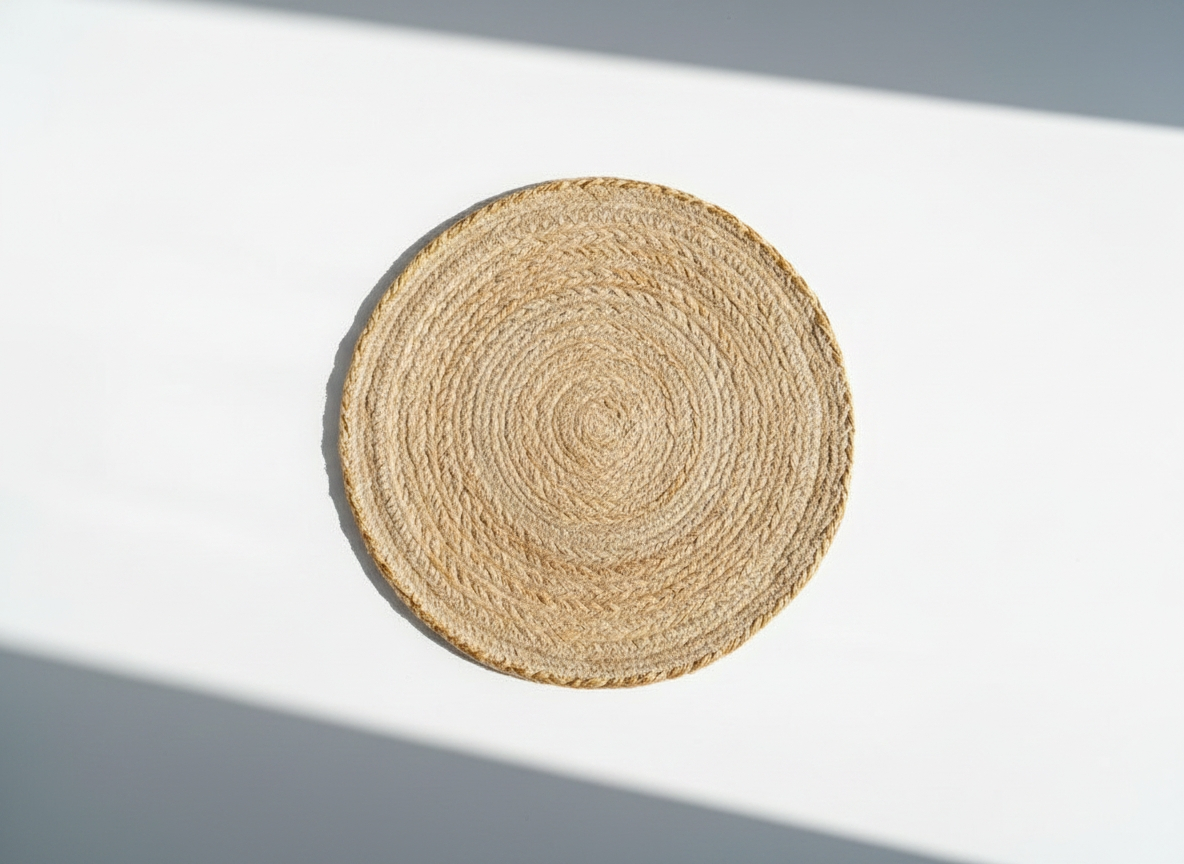
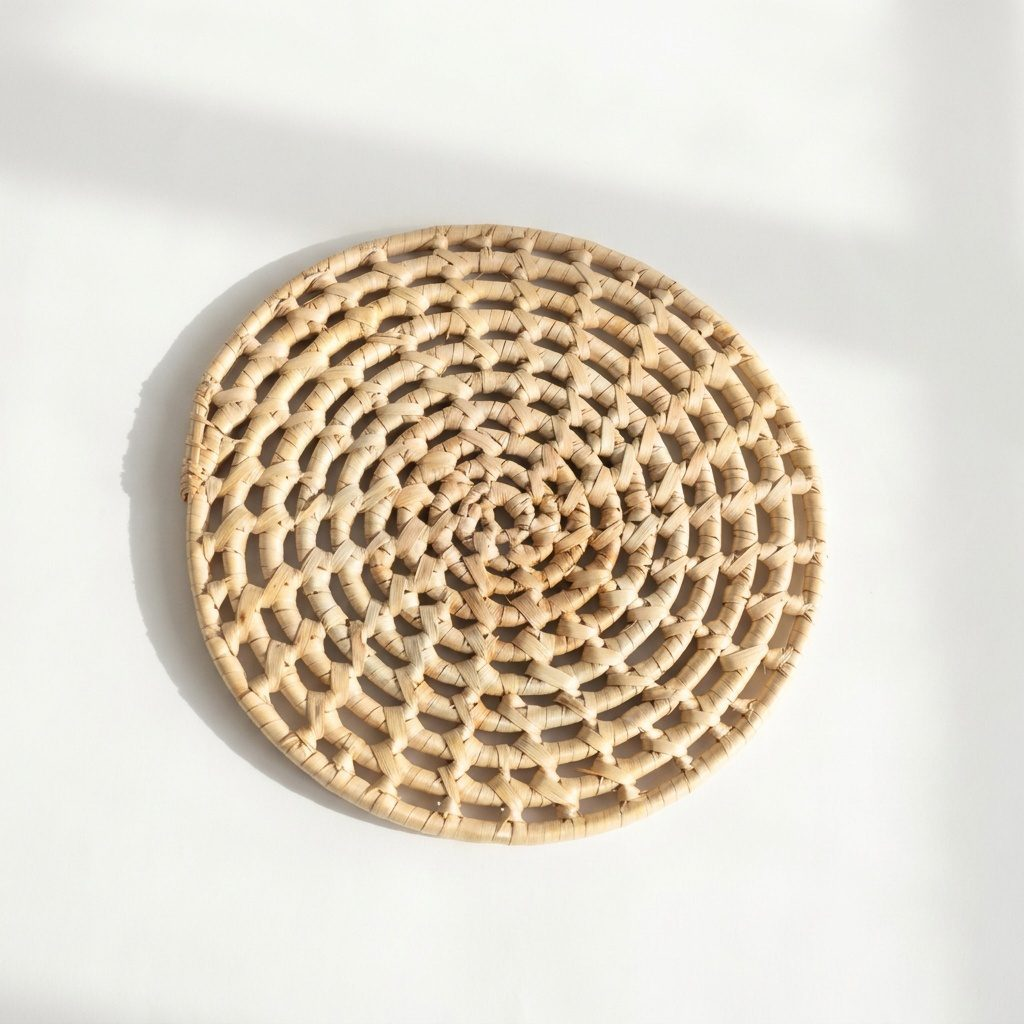
Blue & White: 14 modelos reales (nombre, medida, cantidad, portada marcada) reemplazan genéricos; fix foto Palma; quitar filtro tipo duplicado; platos a 32

diff --git a/data.js b/data.js
@@ -29,7 +29,7 @@ var ICONS = {
 
 var COLECCIONES = [
   { id: 'cargadores', nombre: 'Platos de sitio',  icon: 'plato',   modelos: 4,  portada: 'assets/06-hero-portada/categorias/cat-platos-de-sitio.jpg' },
-  { id: 'platos',     nombre: 'Platos',           icon: 'bowl',    modelos: 31, portada: 'assets/06-hero-portada/categorias/cat-platos.jpg' },
+  { id: 'platos',     nombre: 'Platos',           icon: 'bowl',    modelos: 32, portada: 'assets/06-hero-portada/categorias/cat-platos.jpg' },
   { id: 'cubiertos',  nombre: 'Cubertería',       icon: 'cubierto',modelos: 4,  portada: 'assets/06-hero-portada/categorias/cat-cuberteria.png' },
   { id: 'cristaleria',nombre: 'Cristalería',      icon: 'copa',    modelos: 12, portada: 'assets/06-hero-portada/categorias/cat-cristaleria.jpg' },
   { id: 'plateria',   nombre: 'Platería',         icon: 'centro',  modelos: 0,  portada: 'assets/06-hero-portada/categorias/cat-plateria.jpg' }
@@ -61,19 +61,20 @@ var PRODUCTOS = [
   /* ---------- Mix & Match (familias con sub-modelos · STOCK A CONFIRMAR ⚠️) ----------
      Cada playo y cada postre es un producto propio (filtrable). Se cruzan en "combiná con".
      Nombres de postres provisorios (Blue & White 01..10 / Bordó 01..04). */
-  { id:'bw-opulence', nombre:'Blue & White Opulence', coleccion:'platos', icon:'bowl', material:'Mix & match · azul', destacado:false, piezas:[{t:'Playo',s:40}], tags:['azul','vintage','mix & match','playo'], descripcion:'Plato playo Blue & White de la familia mix & match. Combinable con todos los postres de la línea.', combinaCon:['bw-cobalto','bw-floral','bw-postre-01','bw-postre-02','bw-postre-03','bw-postre-04','bw-postre-05','bw-postre-06','bw-postre-07','bw-postre-08','bw-postre-09','bw-postre-10'], fotos:['assets/02-platos/bw-opulence/bw-opulence-1.jpg','assets/02-platos/bw-opulence/bw-opulence-2.jpg','assets/02-platos/bw-opulence/bw-opulence-3.jpg','assets/02-platos/bw-opulence/bw-opulence-4.jpg','assets/02-platos/bw-opulence/bw-opulence-5.jpg','assets/02-platos/bw-opulence/bw-opulence-6.jpg'] },
-  { id:'bw-cobalto', nombre:'Blue & White Cobalto y oro', coleccion:'platos', icon:'bowl', material:'Mix & match · azul', destacado:false, piezas:[{t:'Playo',s:32}], tags:['azul','vintage','mix & match','playo'], descripcion:'Plato playo Blue & White de la familia mix & match. Combinable con todos los postres de la línea.', combinaCon:['bw-opulence','bw-floral','bw-postre-01','bw-postre-02','bw-postre-03','bw-postre-04','bw-postre-05','bw-postre-06','bw-postre-07','bw-postre-08','bw-postre-09','bw-postre-10'], fotos:['assets/02-platos/bw-cobalto/bw-cobalto-1.jpg','assets/02-platos/bw-cobalto/bw-cobalto-2.jpg','assets/02-platos/bw-cobalto/bw-cobalto-3.jpg','assets/02-platos/bw-cobalto/bw-cobalto-4.jpg','assets/02-platos/bw-cobalto/bw-cobalto-5.jpg'] },
-  { id:'bw-floral', nombre:'Blue & White Floral', coleccion:'platos', icon:'bowl', material:'Mix & match · azul', destacado:false, piezas:[{t:'Playo',s:28}], tags:['azul','vintage','mix & match','playo'], descripcion:'Plato playo Blue & White de la familia mix & match. Combinable con todos los postres de la línea.', combinaCon:['bw-opulence','bw-cobalto','bw-postre-01','bw-postre-02','bw-postre-03','bw-postre-04','bw-postre-05','bw-postre-06','bw-postre-07','bw-postre-08','bw-postre-09','bw-postre-10'], fotos:['assets/02-platos/bw-floral/bw-floral-1.jpg','assets/02-platos/bw-floral/bw-floral-2.jpg'] },
-  { id:'bw-postre-01', nombre:'Postre Blue & White 01', coleccion:'platos', icon:'bowl', material:'Mix & match · azul', destacado:false, piezas:[{t:'Postre',s:12}], tags:['azul','vintage','mix & match','postre'], descripcion:'Plato de postre mix & match Blue & White. Combinable con cualquier playo de la línea.', combinaCon:['bw-opulence','bw-cobalto','bw-floral'], fotos:['assets/02-platos/bw-postre-01/bw-postre-01-1.jpg'] },
-  { id:'bw-postre-02', nombre:'Postre Blue & White 02', coleccion:'platos', icon:'bowl', material:'Mix & match · azul', destacado:false, piezas:[{t:'Postre',s:10}], tags:['azul','vintage','mix & match','postre'], descripcion:'Plato de postre mix & match Blue & White. Combinable con cualquier playo de la línea.', combinaCon:['bw-opulence','bw-cobalto','bw-floral'], fotos:['assets/02-platos/bw-postre-02/bw-postre-02-1.jpg'] },
-  { id:'bw-postre-03', nombre:'Postre Blue & White 03', coleccion:'platos', icon:'bowl', material:'Mix & match · azul', destacado:false, piezas:[{t:'Postre',s:8}], tags:['azul','vintage','mix & match','postre'], descripcion:'Plato de postre mix & match Blue & White. Combinable con cualquier playo de la línea.', combinaCon:['bw-opulence','bw-cobalto','bw-floral'], fotos:['assets/02-platos/bw-postre-03/bw-postre-03-1.jpg'] },
-  { id:'bw-postre-04', nombre:'Postre Blue & White 04', coleccion:'platos', icon:'bowl', material:'Mix & match · azul', destacado:false, piezas:[{t:'Postre',s:15}], tags:['azul','vintage','mix & match','postre'], descripcion:'Plato de postre mix & match Blue & White. Combinable con cualquier playo de la línea.', combinaCon:['bw-opulence','bw-cobalto','bw-floral'], fotos:['assets/02-platos/bw-postre-04/bw-postre-04-1.jpg'] },
-  { id:'bw-postre-05', nombre:'Postre Blue & White 05', coleccion:'platos', icon:'bowl', material:'Mix & match · azul', destacado:false, piezas:[{t:'Postre',s:9}], tags:['azul','vintage','mix & match','postre'], descripcion:'Plato de postre mix & match Blue & White. Combinable con cualquier playo de la línea.', combinaCon:['bw-opulence','bw-cobalto','bw-floral'], fotos:['assets/02-platos/bw-postre-05/bw-postre-05-1.jpg'] },
-  { id:'bw-postre-06', nombre:'Postre Blue & White 06', coleccion:'platos', icon:'bowl', material:'Mix & match · azul', destacado:false, piezas:[{t:'Postre',s:6}], tags:['azul','vintage','mix & match','postre'], descripcion:'Plato de postre mix & match Blue & White. Combinable con cualquier playo de la línea.', combinaCon:['bw-opulence','bw-cobalto','bw-floral'], fotos:['assets/02-platos/bw-postre-06/bw-postre-06-1.jpg'] },
-  { id:'bw-postre-07', nombre:'Postre Blue & White 07', coleccion:'platos', icon:'bowl', material:'Mix & match · azul', destacado:false, piezas:[{t:'Postre',s:11}], tags:['azul','vintage','mix & match','postre'], descripcion:'Plato de postre mix & match Blue & White. Combinable con cualquier playo de la línea.', combinaCon:['bw-opulence','bw-cobalto','bw-floral'], fotos:['assets/02-platos/bw-postre-07/bw-postre-07-1.jpg'] },
-  { id:'bw-postre-08', nombre:'Postre Blue & White 08', coleccion:'platos', icon:'bowl', material:'Mix & match · azul', destacado:false, piezas:[{t:'Postre',s:7}], tags:['azul','vintage','mix & match','postre'], descripcion:'Plato de postre mix & match Blue & White. Combinable con cualquier playo de la línea.', combinaCon:['bw-opulence','bw-cobalto','bw-floral'], fotos:['assets/02-platos/bw-postre-08/bw-postre-08-1.jpg'] },
-  { id:'bw-postre-09', nombre:'Postre Blue & White 09', coleccion:'platos', icon:'bowl', material:'Mix & match · azul', destacado:false, piezas:[{t:'Postre',s:14}], tags:['azul','vintage','mix & match','postre'], descripcion:'Plato de postre mix & match Blue & White. Combinable con cualquier playo de la línea.', combinaCon:['bw-opulence','bw-cobalto','bw-floral'], fotos:['assets/02-platos/bw-postre-09/bw-postre-09-1.jpg'] },
-  { id:'bw-postre-10', nombre:'Postre Blue & White 10', coleccion:'platos', icon:'bowl', material:'Mix & match · azul', destacado:false, piezas:[{t:'Postre',s:8}], tags:['azul','vintage','mix & match','postre'], descripcion:'Plato de postre mix & match Blue & White. Combinable con cualquier playo de la línea.', combinaCon:['bw-opulence','bw-cobalto','bw-floral'], fotos:['assets/02-platos/bw-postre-10/bw-postre-10-1.jpg'] },
+  { id:'bw-rockwood', nombre:'Inglés Blue Rockwood', coleccion:'platos', icon:'bowl', material:'Mix & match · azul', destacado:false, piezas:[{t:'Playo 25 cm',s:12},{t:'Postre 22 cm',s:12}], tags:['azul','vintage','mix & match','playo','postre'], descripcion:'Modelo Blue & White de mix & match. Combinable con cualquier otro de la familia.', combinaCon:['bw-lozalit','bw-gural','bw-printemps','bw-british-anchor','bw-country','bw-johnson','bw-saxonia','bw-tsuji-old','bw-kent','bw-opulence','bw-verbano','bw-tsuji-flora','bw-bavaria'], fotos:['assets/02-platos/bw-rockwood/bw-rockwood-1.jpg','assets/02-platos/bw-rockwood/bw-rockwood-2.jpg','assets/02-platos/bw-rockwood/bw-rockwood-3.jpg'] },
+  { id:'bw-lozalit', nombre:'Azul con Flores Vintage Lozalit', coleccion:'platos', icon:'bowl', material:'Mix & match · azul', destacado:false, piezas:[{t:'Playo 25 cm',s:28},{t:'Postre 20 cm',s:21}], tags:['azul','vintage','mix & match','playo','postre'], descripcion:'Modelo Blue & White de mix & match. Combinable con cualquier otro de la familia.', combinaCon:['bw-rockwood','bw-gural','bw-printemps','bw-british-anchor','bw-country','bw-johnson','bw-saxonia','bw-tsuji-old','bw-kent','bw-opulence','bw-verbano','bw-tsuji-flora','bw-bavaria'], fotos:['assets/02-platos/bw-lozalit/bw-lozalit-1.jpg','assets/02-platos/bw-lozalit/bw-lozalit-2.jpg','assets/02-platos/bw-lozalit/bw-lozalit-3.jpg'] },
+  { id:'bw-gural', nombre:'Azul y Oro Gural', coleccion:'platos', icon:'bowl', material:'Mix & match · azul y oro', destacado:false, piezas:[{t:'Playo 27 cm',s:7},{t:'Postre 20 cm',s:6}], tags:['azul','dorado','vintage','mix & match','playo','postre'], descripcion:'Modelo Blue & White de mix & match. Combinable con cualquier otro de la familia.', combinaCon:['bw-rockwood','bw-lozalit','bw-printemps','bw-british-anchor','bw-country','bw-johnson','bw-saxonia','bw-tsuji-old','bw-kent','bw-opulence','bw-verbano','bw-tsuji-flora','bw-bavaria'], fotos:['assets/02-platos/bw-gural/bw-gural-1.jpg','assets/02-platos/bw-gural/bw-gural-2.jpg'] },
+  { id:'bw-printemps', nombre:'Blue & White Printemps', coleccion:'platos', icon:'bowl', material:'Mix & match · azul', destacado:false, piezas:[{t:'Playo 23 cm',s:23},{t:'Postre 20 cm',s:12}], tags:['azul','vintage','mix & match','playo','postre'], descripcion:'Modelo Blue & White de mix & match. Combinable con cualquier otro de la familia.', combinaCon:['bw-rockwood','bw-lozalit','bw-gural','bw-british-anchor','bw-country','bw-johnson','bw-saxonia','bw-tsuji-old','bw-kent','bw-opulence','bw-verbano','bw-tsuji-flora','bw-bavaria'], fotos:['assets/02-platos/bw-printemps/bw-printemps-1.jpg','assets/02-platos/bw-printemps/bw-printemps-2.jpg'] },
+  { id:'bw-british-anchor', nombre:'Blue British Anchor', coleccion:'platos', icon:'bowl', material:'Mix & match · azul', destacado:false, piezas:[{t:'Playo 23 cm',s:6},{t:'Postre 20 cm',s:5}], tags:['azul','vintage','mix & match','playo','postre'], descripcion:'Modelo Blue & White de mix & match. Combinable con cualquier otro de la familia.', combinaCon:['bw-rockwood','bw-lozalit','bw-gural','bw-printemps','bw-country','bw-johnson','bw-saxonia','bw-tsuji-old','bw-kent','bw-opulence','bw-verbano','bw-tsuji-flora','bw-bavaria'], fotos:['assets/02-platos/bw-british-anchor/bw-british-anchor-1.jpg','assets/02-platos/bw-british-anchor/bw-british-anchor-2.jpg'] },
+  { id:'bw-country', nombre:'Blue Country', coleccion:'platos', icon:'bowl', material:'Mix & match · azul', destacado:false, piezas:[{t:'Entrada 19 cm',s:44}], tags:['azul','vintage','mix & match','postre'], descripcion:'Modelo Blue & White de mix & match. Combinable con cualquier otro de la familia.', combinaCon:['bw-rockwood','bw-lozalit','bw-gural','bw-printemps','bw-british-anchor','bw-johnson','bw-saxonia','bw-tsuji-old','bw-kent','bw-opulence','bw-verbano','bw-tsuji-flora','bw-bavaria'], fotos:['assets/02-platos/bw-country/bw-country-1.jpg','assets/02-platos/bw-country/bw-country-2.jpg'] },
+  { id:'bw-johnson', nombre:'Johnson Bros Blue & White', coleccion:'platos', icon:'bowl', material:'Mix & match · azul', destacado:false, piezas:[{t:'Playo 25 cm',s:11},{t:'Postre 20 cm',s:10}], tags:['azul','vintage','mix & match','playo','postre'], descripcion:'Modelo Blue & White de mix & match. Combinable con cualquier otro de la familia.', combinaCon:['bw-rockwood','bw-lozalit','bw-gural','bw-printemps','bw-british-anchor','bw-country','bw-saxonia','bw-tsuji-old','bw-kent','bw-opulence','bw-verbano','bw-tsuji-flora','bw-bavaria'], fotos:['assets/02-platos/bw-johnson/bw-johnson-1.jpg','assets/02-platos/bw-johnson/bw-johnson-2.jpg','assets/02-platos/bw-johnson/bw-johnson-3.jpg'] },
+  { id:'bw-saxonia', nombre:'Porcelana Azul Saxonia', coleccion:'platos', icon:'bowl', material:'Mix & match · azul', destacado:false, piezas:[{t:'Postre 20 cm',s:12}], tags:['azul','vintage','mix & match','postre'], descripcion:'Modelo Blue & White de mix & match. Combinable con cualquier otro de la familia.', combinaCon:['bw-rockwood','bw-lozalit','bw-gural','bw-printemps','bw-british-anchor','bw-country','bw-johnson','bw-tsuji-old','bw-kent','bw-opulence','bw-verbano','bw-tsuji-flora','bw-bavaria'], fotos:['assets/02-platos/bw-saxonia/bw-saxonia-1.jpg','assets/02-platos/bw-saxonia/bw-saxonia-2.jpg'] },
+  { id:'bw-tsuji-old', nombre:'Old Blue Tsuji', coleccion:'platos', icon:'bowl', material:'Mix & match · azul', destacado:false, piezas:[{t:'Postre 20 cm',s:11}], tags:['azul','vintage','mix & match','postre'], descripcion:'Modelo Blue & White de mix & match. Combinable con cualquier otro de la familia.', combinaCon:['bw-rockwood','bw-lozalit','bw-gural','bw-printemps','bw-british-anchor','bw-country','bw-johnson','bw-saxonia','bw-kent','bw-opulence','bw-verbano','bw-tsuji-flora','bw-bavaria'], fotos:['assets/02-platos/bw-tsuji-old/bw-tsuji-old-1.jpg','assets/02-platos/bw-tsuji-old/bw-tsuji-old-2.jpg'] },
+  { id:'bw-kent', nombre:'Blue & White Kent', coleccion:'platos', icon:'bowl', material:'Mix & match · azul', destacado:false, piezas:[{t:'Playo 24 cm',s:12}], tags:['azul','vintage','mix & match','playo'], descripcion:'Modelo Blue & White de mix & match. Combinable con cualquier otro de la familia.', combinaCon:['bw-rockwood','bw-lozalit','bw-gural','bw-printemps','bw-british-anchor','bw-country','bw-johnson','bw-saxonia','bw-tsuji-old','bw-opulence','bw-verbano','bw-tsuji-flora','bw-bavaria'], fotos:['assets/02-platos/bw-kent/bw-kent-1.jpg','assets/02-platos/bw-kent/bw-kent-2.jpg','assets/02-platos/bw-kent/bw-kent-3.jpg'] },
+  { id:'bw-opulence', nombre:'Opulence Blue & White', coleccion:'platos', icon:'bowl', material:'Mix & match · azul', destacado:false, piezas:[{t:'Playo 27 cm',s:19}], tags:['azul','vintage','mix & match','playo'], descripcion:'Modelo Blue & White de mix & match. Combinable con cualquier otro de la familia.', combinaCon:['bw-rockwood','bw-lozalit','bw-gural','bw-printemps','bw-british-anchor','bw-country','bw-johnson','bw-saxonia','bw-tsuji-old','bw-kent','bw-verbano','bw-tsuji-flora','bw-bavaria'], fotos:['assets/02-platos/bw-opulence/bw-opulence-1.jpg','assets/02-platos/bw-opulence/bw-opulence-2.jpg','assets/02-platos/bw-opulence/bw-opulence-3.jpg','assets/02-platos/bw-opulence/bw-opulence-4.jpg','assets/02-platos/bw-opulence/bw-opulence-5.jpg'] },
+  { id:'bw-verbano', nombre:'Verbano Azul y Oro', coleccion:'platos', icon:'bowl', material:'Mix & match · azul y oro', destacado:false, piezas:[{t:'Playo 25 cm',s:32},{t:'Postre 20 cm',s:23}], tags:['azul','dorado','vintage','mix & match','playo','postre'], descripcion:'Modelo Blue & White de mix & match. Combinable con cualquier otro de la familia.', combinaCon:['bw-rockwood','bw-lozalit','bw-gural','bw-printemps','bw-british-anchor','bw-country','bw-johnson','bw-saxonia','bw-tsuji-old','bw-kent','bw-opulence','bw-tsuji-flora','bw-bavaria'], fotos:['assets/02-platos/bw-verbano/bw-verbano-1.jpg','assets/02-platos/bw-verbano/bw-verbano-2.jpg','assets/02-platos/bw-verbano/bw-verbano-3.jpg'] },
+  { id:'bw-tsuji-flora', nombre:'Tsuji Blue Flora', coleccion:'platos', icon:'bowl', material:'Mix & match · azul', destacado:false, piezas:[{t:'Postre 20 cm',s:12}], tags:['azul','vintage','mix & match','postre'], descripcion:'Modelo Blue & White de mix & match. Combinable con cualquier otro de la familia.', combinaCon:['bw-rockwood','bw-lozalit','bw-gural','bw-printemps','bw-british-anchor','bw-country','bw-johnson','bw-saxonia','bw-tsuji-old','bw-kent','bw-opulence','bw-verbano','bw-bavaria'], fotos:['assets/02-platos/bw-tsuji-flora/bw-tsuji-flora-1.jpg','assets/02-platos/bw-tsuji-flora/bw-tsuji-flora-2.jpg','assets/02-platos/bw-tsuji-flora/bw-tsuji-flora-3.jpg'] },
+  { id:'bw-bavaria', nombre:'Flores Azul Bavaria Marie Luise', coleccion:'platos', icon:'bowl', material:'Mix & match · azul', destacado:false, piezas:[{t:'Postre',s:20}], tags:['azul','vintage','mix & match','postre'], descripcion:'Modelo Blue & White de mix & match. Combinable con cualquier otro de la familia.', combinaCon:['bw-rockwood','bw-lozalit','bw-gural','bw-printemps','bw-british-anchor','bw-country','bw-johnson','bw-saxonia','bw-tsuji-old','bw-kent','bw-opulence','bw-verbano','bw-tsuji-flora'], fotos:['assets/02-platos/bw-bavaria/bw-bavaria-1.jpg'] },
   { id:'bordo-clasico', nombre:'Bordó', coleccion:'platos', icon:'bowl', material:'Mix & match · bordó', destacado:false, piezas:[{t:'Playo',s:40}], tags:['bordó','vintage','mix & match','playo'], descripcion:'Plato playo Bordó de la familia mix & match. Combinable con todos los postres de la línea.', combinaCon:['bordo-opulence','bordo-postre-01','bordo-postre-02','bordo-postre-03','bordo-postre-04'], fotos:['assets/02-platos/bordo-clasico/bordo-clasico-1.jpg','assets/02-platos/bordo-clasico/bordo-clasico-2.jpg','assets/02-platos/bordo-clasico/bordo-clasico-3.jpg','assets/02-platos/bordo-clasico/bordo-clasico-4.jpg'] },
   { id:'bordo-opulence', nombre:'Bordó Opulence', coleccion:'platos', icon:'bowl', material:'Mix & match · bordó', destacado:false, piezas:[{t:'Playo',s:32}], tags:['bordó','vintage','mix & match','playo'], descripcion:'Plato playo Bordó de la familia mix & match. Combinable con todos los postres de la línea.', combinaCon:['bordo-clasico','bordo-postre-01','bordo-postre-02','bordo-postre-03','bordo-postre-04'], fotos:['assets/02-platos/bordo-opulence/bordo-opulence-1.jpg','assets/02-platos/bordo-opulence/bordo-opulence-2.jpg','assets/02-platos/bordo-opulence/bordo-opulence-3.jpg','assets/02-platos/bordo-opulence/bordo-opulence-4.jpg','assets/02-platos/bordo-opulence/bordo-opulence-5.jpg','assets/02-platos/bordo-opulence/bordo-opulence-6.jpg','assets/02-platos/bordo-opulence/bordo-opulence-7.jpg','assets/02-platos/bordo-opulence/bordo-opulence-8.jpg','assets/02-platos/bordo-opulence/bordo-opulence-9.jpg','assets/02-platos/bordo-opulence/bordo-opulence-10.jpg','assets/02-platos/bordo-opulence/bordo-opulence-11.jpg'] },
   { id:'bordo-postre-01', nombre:'Postre Bordó 01', coleccion:'platos', icon:'bowl', material:'Mix & match · bordó', destacado:false, piezas:[{t:'Postre',s:12}], tags:['bordó','vintage','mix & match','postre'], descripcion:'Plato de postre mix & match Bordó. Combinable con cualquier playo de la línea.', combinaCon:['bordo-clasico','bordo-opulence'], fotos:['assets/02-platos/bordo-postre-01/bordo-postre-01-1.jpg'] },

diff --git a/catalogo.html b/catalogo.html
@@ -8,7 +8,7 @@
   <link rel="preconnect" href="https://fonts.googleapis.com" />
   <link rel="preconnect" href="https://fonts.gstatic.com" crossorigin />
   <link href="https://fonts.googleapis.com/css2?family=Playfair+Display:wght@400;500;700&family=Montserrat:wght@300;400;500&display=swap" rel="stylesheet" />
-  <link rel="stylesheet" href="styles.css?v=6" />
+  <link rel="stylesheet" href="styles.css?v=7" />
 </head>
 <body>
 
@@ -33,7 +33,6 @@
       <p class="lead" style="margin:14px auto 0;">Filtrá por categoría y por tipo de pieza. Cada modelo muestra material y stock disponible.</p>
       <div class="filters" id="catFilters"></div>
       <div class="cat-toolbar">
-        <div class="filters filters--tipo" id="catFiltrosTipo"></div>
         <button class="filters-btn" id="catFiltrosBtn" type="button">
           <svg viewBox="0 0 24 24" width="16" height="16" fill="none" stroke="currentColor" stroke-width="1.6" stroke-linecap="round"><path d="M3 5h18M6 12h12M10 19h4"/></svg>
           Filtros<span class="filters-btn__count" id="catFiltrosCount" hidden></span>
@@ -86,9 +85,9 @@
     <svg viewBox="0 0 24 24"><path d="M12 2a10 10 0 0 0-8.6 15l-1.3 4.7 4.8-1.3A10 10 0 1 0 12 2zm5.8 14.2c-.2.6-1.2 1.2-1.7 1.2-.5.1-1 .2-3.2-.7-2.7-1.1-4.4-3.9-4.6-4-.1-.2-1-1.4-1-2.6s.6-1.8.9-2c.2-.3.5-.3.7-.3h.5c.2 0 .4 0 .6.5l.8 2c.1.2.1.4 0 .5l-.4.5-.3.4c-.1.1-.3.3-.1.5l.9 1.4c.6.9 1.3 1.2 1.6 1.4.3.1.5.1.6-.1l.7-.9c.2-.2.4-.2.6-.1l1.9.9c.2.1.4.2.5.3.1.3.1.6-.1 1z"/></svg>
   </a>
 
-  <script src="data.js?v=6"></script>
-  <script src="analytics.js?v=6"></script>
-  <script src="catalog.js?v=6"></script>
+  <script src="data.js?v=7"></script>
+  <script src="analytics.js?v=7"></script>
+  <script src="catalog.js?v=7"></script>
   <script>
     var hash = (location.hash || '').replace('#','');
     var startCat = (hash && COLECCIONES.some(function(c){ return c.id === hash; })) ? hash : 'todas';
@@ -96,6 +95,6 @@
     var t = document.getElementById('navToggle');
     if (t) t.addEventListener('click', function(){ document.getElementById('navLinks').classList.toggle('open'); });
   </script>
-  <script src="anim.js?v=6"></script>
+  <script src="anim.js?v=7"></script>
 </body>
 </html>

diff --git a/producto.html b/producto.html
@@ -8,7 +8,7 @@
   <link rel="preconnect" href="https://fonts.googleapis.com" />
   <link rel="preconnect" href="https://fonts.gstatic.com" crossorigin />
   <link href="https://fonts.googleapis.com/css2?family=Playfair+Display:wght@400;500;700&family=Montserrat:wght@300;400;500&display=swap" rel="stylesheet" />
-  <link rel="stylesheet" href="styles.css?v=6" />
+  <link rel="stylesheet" href="styles.css?v=7" />
 </head>
 <body>
 
@@ -41,8 +41,8 @@
     <svg viewBox="0 0 24 24"><path d="M12 2a10 10 0 0 0-8.6 15l-1.3 4.7 4.8-1.3A10 10 0 1 0 12 2zm5.8 14.2c-.2.6-1.2 1.2-1.7 1.2-.5.1-1 .2-3.2-.7-2.7-1.1-4.4-3.9-4.6-4-.1-.2-1-1.4-1-2.6s.6-1.8.9-2c.2-.3.5-.3.7-.3h.5c.2 0 .4 0 .6.5l.8 2c.1.2.1.4 0 .5l-.4.5-.3.4c-.1.1-.3.3-.1.5l.9 1.4c.6.9 1.3 1.2 1.6 1.4.3.1.5.1.6-.1l.7-.9c.2-.2.4-.2.6-.1l1.9.9c.2.1.4.2.5.3.1.3.1.6-.1 1z"/></svg>
   </a>
 
-  <script src="data.js?v=6"></script>
-  <script src="analytics.js?v=6"></script>
+  <script src="data.js?v=7"></script>
+  <script src="analytics.js?v=7"></script>
   <script>
   (function(){
     function qs(k){ return new URLSearchParams(location.search).get(k); }